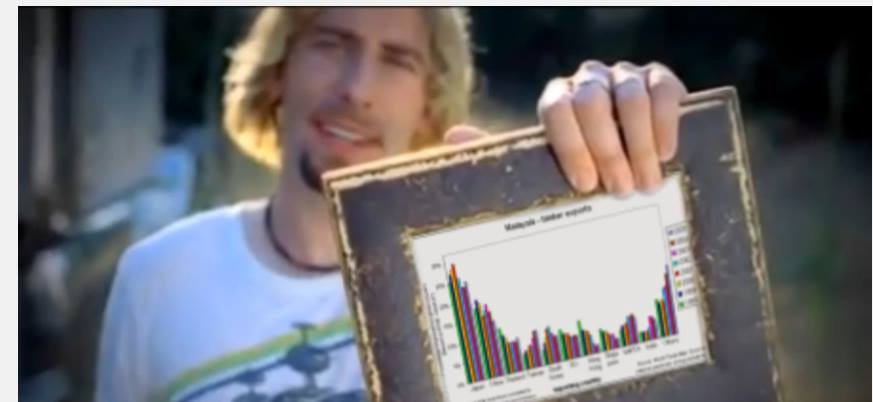
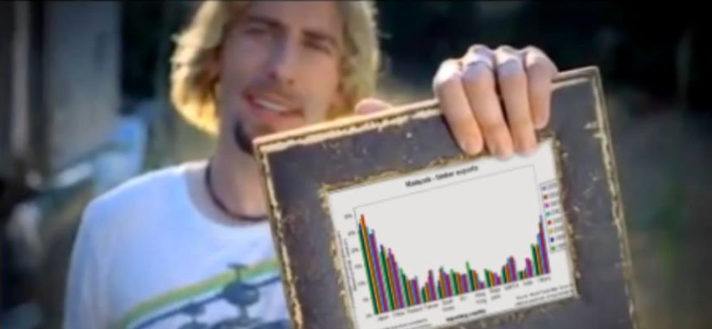
line chart

diff --git a/geo.html b/geo.html
@@ -1,0 +1,92 @@
+<!DOCTYPE html>
+<meta charset="utf-8">
+<style>
+    h1 {
+        position: absolute;
+        top: 500px;
+        font-family: "Helvetica Neue", Helvetica, Arial, sans-serif;
+        font-size: 18px;
+        text-align: center;
+        width: 960px;
+    }
+
+</style>
+<h1></h1>
+<script src="//d3js.org/d3.v3.min.js"></script>
+<script src="//d3js.org/queue.v1.min.js"></script>
+<script src="//d3js.org/topojson.v1.min.js"></script>
+<script>
+    var width = 960,
+        height = 960;
+
+    var projection = d3.geo.orthographic()
+        .translate([width / 2, height / 2])
+        .scale(width / 2 - 20)
+        .clipAngle(90)
+        .precision(0.6);
+
+    var canvas = d3.select("body").append("canvas")
+        .attr("width", width)
+        .attr("height", height);
+
+    var c = canvas.node().getContext("2d");
+
+    var path = d3.geo.path()
+        .projection(projection)
+        .context(c);
+
+    var title = d3.select("h1");
+
+    queue()
+        .defer(d3.json, "world-110m.json")
+        .defer(d3.tsv, "world-country-names.tsv")
+        .await(ready);
+
+    function ready(error, world, names) {
+        if (error) throw error;
+
+        var globe = {
+                type: "Sphere"
+            },
+            land = topojson.feature(world, world.objects.land),
+            countries = topojson.feature(world, world.objects.countries).features,
+            borders = topojson.mesh(world, world.objects.countries, function(a, b) {
+                return a !== b;
+            }),
+            i = -1,
+            n = countries.length;
+
+        countries = countries.filter(function(d) {
+            return names.some(function(n) {
+                if (d.id == n.id) return d.name = n.name;
+            });
+        }).sort(function(a, b) {
+            return a.name.localeCompare(b.name);
+        });
+
+        (function transition() {
+            d3.transition()
+                .duration(1250)
+                .each("start", function() {
+                    title.text(countries[i = (i + 1) % n].name);
+                })
+                .tween("rotate", function() {
+                    var p = d3.geo.centroid(countries[i]),
+                        r = d3.interpolate(projection.rotate(), [-p[0], -p[1]]);
+                    return function(t) {
+                        projection.rotate(r(t));
+                        c.clearRect(0, 0, width, height);
+                        c.fillStyle = "#ccc", c.beginPath(), path(land), c.fill();
+                        c.fillStyle = "#f00", c.beginPath(), path(countries[i]), c.fill();
+                        c.strokeStyle = "#fff", c.lineWidth = .5, c.beginPath(), path(borders), c.stroke();
+                        c.strokeStyle = "#000", c.lineWidth = 2, c.beginPath(), path(globe), c.stroke();
+                    };
+                })
+                .transition()
+                .each("end", transition);
+        })();
+    }
+
+    d3.select(self.frameElement).style("height", height + "px");
+
+</script>

diff --git a/line_chart.html b/line_chart.html
@@ -5,7 +5,7 @@
     <script type="text/javascript" src="https://d3js.org/d3.v4.min.js"></script>
     <style>
         body {
-            background: beige;
+            background: #acbee2;
         }
 
         svg {
@@ -30,9 +30,9 @@
         // set the dimensions and margins of the graph
         var margin = {
                 top: 20,
-                right: 100,
+                right: 40,
                 bottom: 30,
-                left: 50
+                left: 60
             },
             width = 960 - margin.left - margin.right,
             height = 500 - margin.top - margin.bottom;
@@ -98,18 +98,29 @@
 
         svg.append("text")
             .attr("transform",
-                "translate(" + (width / 2) + " ," +
+                "translate(" + ((width / 2) - 5) + " ," +
                 (10) + ")")
             .style("text-anchor", "middle")
             .style('font', '20px times')
             .text("Look at this Graph");
 
+        svg.append('rect')
+            .attr('width', '109')
+            .attr('height', '52')
+            .attr('x', (width - 122) / 2)
+            .attr('y', '19')
+            .style('fill', 'white')
+            .style('stroke', '#5d778c')
+
+
         svg.append("image")
             .attr("xlink:href", "graph.jpg")
             .attr('width', '100')
             .attr('height', '100')
-            .attr('x', (width - 105) / 2)
-            .attr('y', '-10')
+            .attr('x', (width - 113) / 2)
+            .attr('y', '-5')
+
+
 
         svg.append("text")
             .attr("transform",
@@ -120,7 +131,7 @@
 
         svg.append("text")
             .attr("transform", "rotate(-90)")
-            .attr("y", 0 - margin.left)
+            .attr("y", 10 - margin.left)
             .attr("x", 0 - (height / 2))
             .attr("dy", "1em")
             .style("text-anchor", "middle")
